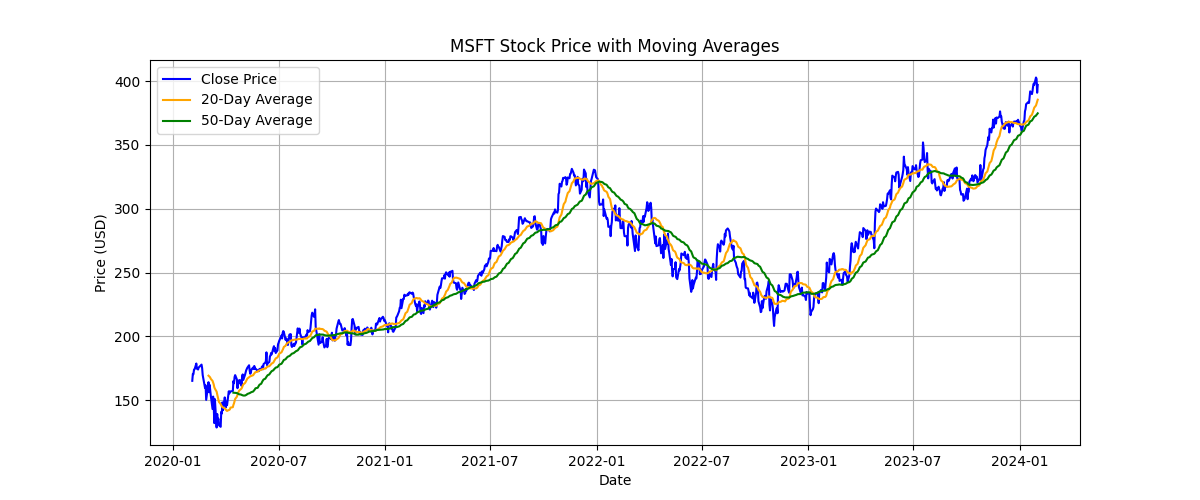
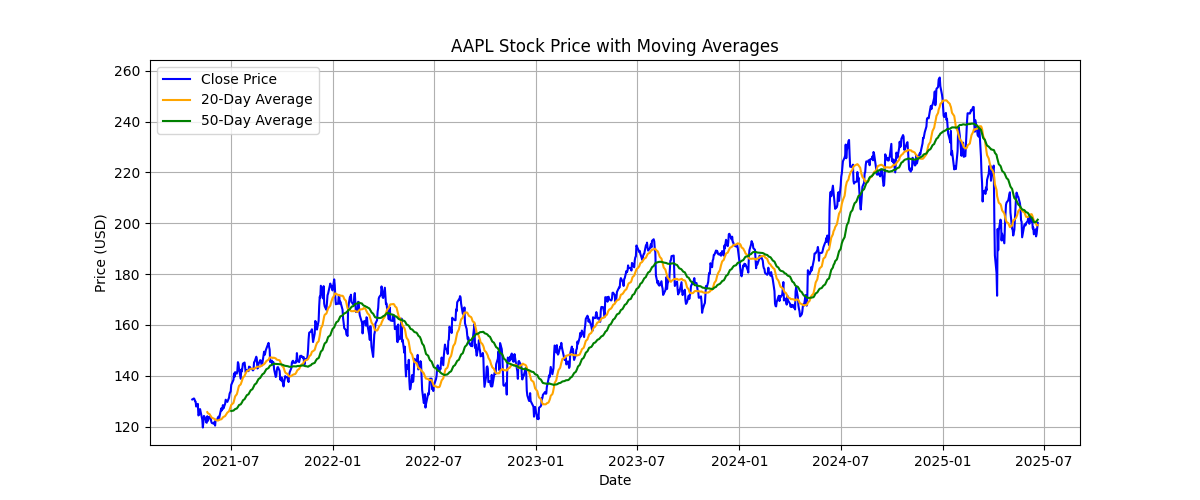
Add single stock and compare stocks scripts

diff --git a/compare_stocks.py b/compare_stocks.py
@@ -1,0 +1,32 @@
+import yfinance as yf
+import matplotlib.pyplot as plt
+
+# List of stocks to compare
+tickers = ["AAPL", "TSLA", "MSFT", "GOOGL", "AMZN"]
+
+# Date range
+start_date = input("Enter start date (YYYY-MM-DD): ")
+end_date = input("Enter end date (YYYY-MM-DD): ")
+
+# Download all stocks at once
+data = yf.download(tickers, start=start_date, end=end_date)['Close']
+
+# Calculate daily returns
+daily_returns = data.pct_change()
+
+# Calculate cumulative returns
+cumulative_returns = (1 + daily_returns).cumprod()
+
+# Plot all stocks on one chart
+plt.figure(figsize=(12, 6))
+
+for ticker in tickers:
+    plt.plot(cumulative_returns[ticker], linewidth=1.5, label=ticker)
+
+plt.title("Stock Comparison — Cumulative Returns")
+plt.xlabel("Date")
+plt.ylabel("Growth of $1 invested")
+plt.legend()
+plt.grid(True)
+plt.savefig("comparison_chart.png")
+print("Chart saved!")